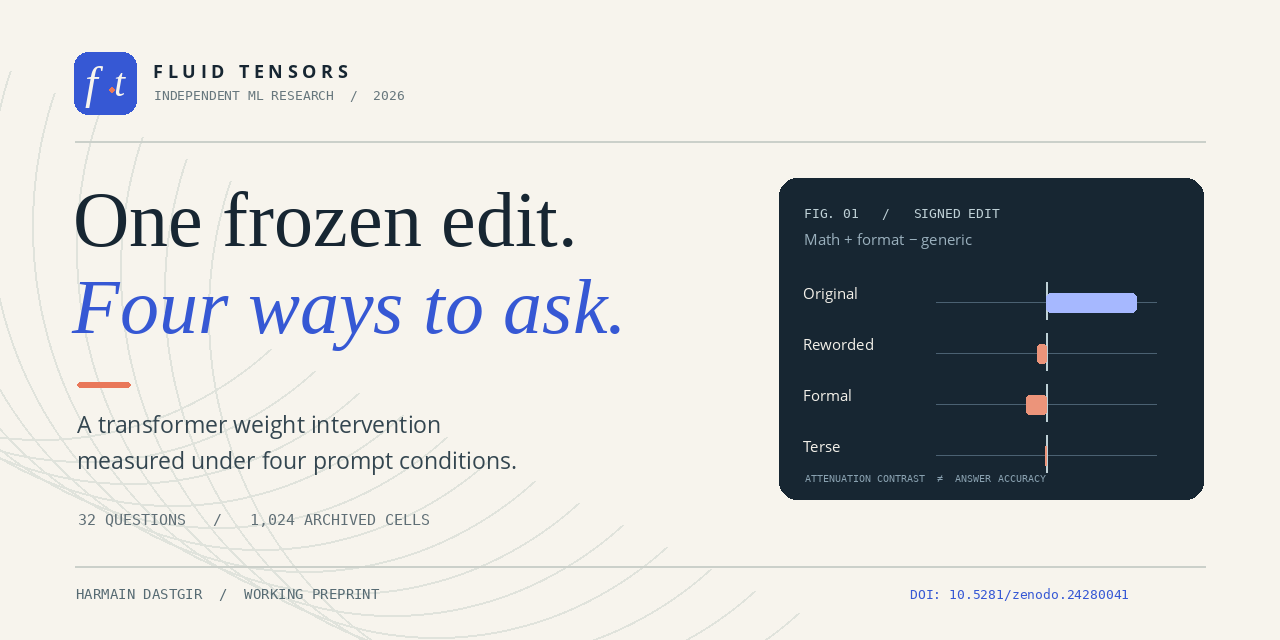
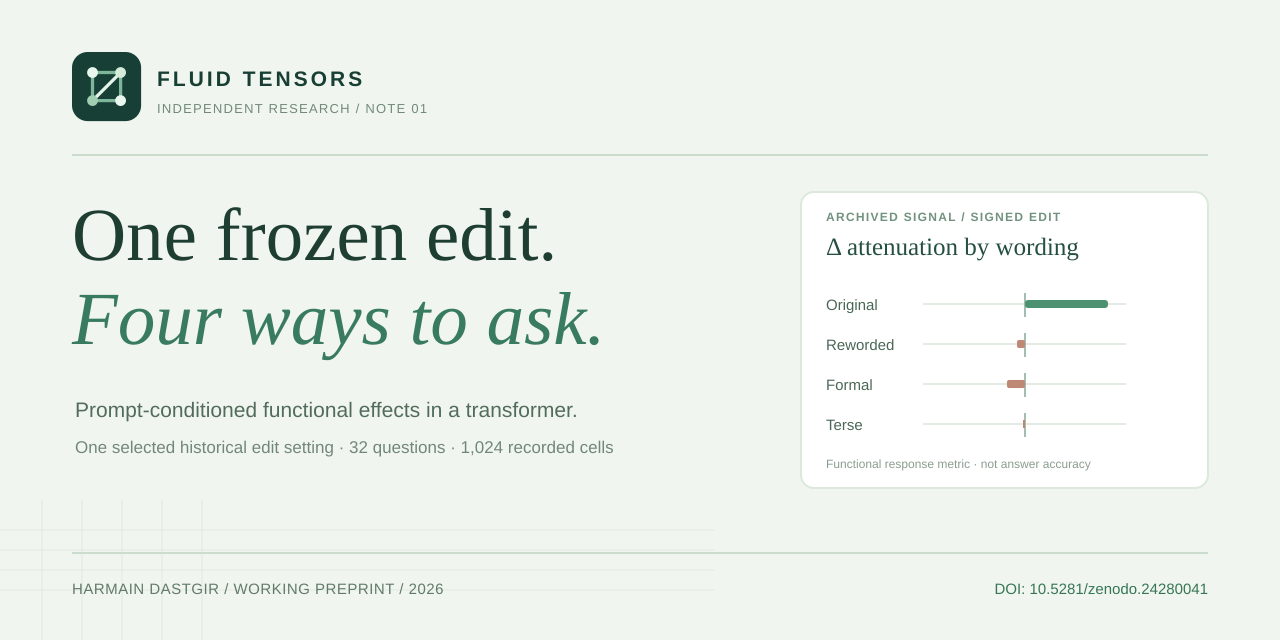
Add files via upload

diff --git a/docs/editorial.css b/docs/editorial.css
@@ -1,6 +1,7 @@
-@import url('https://fonts.googleapis.com/css2?family=Source+Sans+3:wght@400;500;600;700&display=swap');
+@import url('https://fonts.googleapis.com/css2?family=Newsreader:ital,opsz,wght@0,6..72,400;0,6..72,500;1,6..72,400&family=Source+Sans+3:wght@400;500;600;700&display=swap');
 
 :root{--text:#29342e;--muted:#697972;--green:#277c61;--green-dark:#17654c;--tint:#f3f8f5;--soft:#f7faf8;--line:#dce7e0;--paper:#fff;--danger:#ae6b53;--sans:'Source Sans 3',-apple-system,BlinkMacSystemFont,'Segoe UI',Arial,sans-serif}
+:root{--display:'Newsreader',Georgia,'Times New Roman',serif;--deep:#173f35;--copper:#b47860}
 *{box-sizing:border-box}
 html{scroll-behavior:smooth;scroll-padding-top:25px}
 body{margin:0;background:var(--paper);color:var(--text);font:17px/1.77 var(--sans);-webkit-font-smoothing:antialiased}
@@ -106,13 +107,72 @@ code,pre{font-family:Consolas,'SFMono-Regular',monospace;font-size:.85em}code{ba
 .site-footer .reading-width{display:flex;flex-wrap:wrap;justify-content:space-between;gap:10px}.site-footer .shell{display:flex;flex-wrap:wrap;justify-content:space-between;gap:16px}
 .footer-top{display:none}.footer-bottom{display:flex;gap:17px;flex-wrap:wrap}.footer-bottom>span{display:block}
 
+/* Fluid Tensors identity: an editorial issue cover with a measured signal. */
+.brand{gap:10px;color:var(--deep)}
+.brand img{display:block;flex:none;border-radius:9px}
+.brand .brand-wordmark{font-size:17px;font-weight:700;letter-spacing:-.3px;color:var(--deep);padding:0;border:0}
+.brand .brand-qualifier{font-size:12px;font-weight:500;letter-spacing:.12px;color:#8a9990;padding-left:12px;margin-left:4px;border-left:1px solid #d8e4db}
+.site-nav a[aria-current='page']{border-bottom:1px solid var(--green)}
+.paper-hero{background:#f1f5ef;padding:0;border-bottom:1px solid #dfe8df}
+.hero-grid{display:grid;grid-template-columns:minmax(0,1.04fr) minmax(380px,.96fr);gap:65px;align-items:center;padding-top:78px;padding-bottom:76px}
+.hero-copy{min-width:0}
+.paper-category{display:flex;align-items:center;gap:12px;font-size:11px;letter-spacing:1.5px;margin-bottom:26px;color:#54806a}
+.category-separator{color:#b5cbbc;font-size:20px;font-weight:400;line-height:0}
+.paper-hero .hero-copy h1{font:500 clamp(56px,5.6vw,79px)/.99 var(--display);letter-spacing:-2px;color:#1f3f32;max-width:none}
+.paper-hero .hero-copy h1 em{color:#397b60;font-style:italic;font-weight:400}
+.paper-hero .paper-subtitle{font-size:18px;color:#38554a;font-weight:600;line-height:1.5;margin-top:27px}
+.hero-intro{font-size:17px;line-height:1.72;color:#687b6e;max-width:500px;margin-top:17px}
+.hero-actions{display:flex;flex-wrap:wrap;gap:13px 21px;align-items:center;margin-top:30px}
+.hero-actions .button-primary{background:var(--deep);color:#fff;border-color:var(--deep);font-size:14px;font-weight:600;padding:12px 18px;border-radius:5px}
+.hero-actions .button-primary:hover{background:#315e49;color:#fff;text-decoration:none}
+.hero-text-link{font-size:14px;font-weight:600;letter-spacing:.1px;color:#386f55}
+.hero-comparison{margin:0;background:#fff;border:1px solid #d5e2d7;border-radius:11px;padding:25px 26px 20px;box-shadow:0 13px 45px #2448340b;min-width:0}
+.hero-figure-head{display:flex;justify-content:space-between;gap:8px;color:#82978a;font-size:10px;font-weight:700;letter-spacing:1.05px;text-transform:uppercase;padding-bottom:18px;border-bottom:1px solid #e6eee6}
+.hero-figure-title{display:flex;justify-content:space-between;align-items:baseline;gap:12px;margin:22px 0 21px}
+.hero-figure-title strong{font:500 24px/1.2 var(--display);color:var(--deep)}
+.hero-figure-title span{color:#81948a;font-size:12px;white-space:nowrap}
+.hero-plot-scale{display:flex;justify-content:space-between;margin:0 92px 5px 81px;color:#90a197;font-size:10px;letter-spacing:.1px}
+.hero-plot-row{display:grid;grid-template-columns:80px minmax(0,1fr) 89px;align-items:center;gap:11px;min-height:43px;font-size:13px}
+.hero-plot-row>span{color:#486658;font-weight:600}.hero-plot-row>strong{text-align:right;font-size:12px;color:#536f5f;letter-spacing:-.15px;font-variant-numeric:tabular-nums}
+.hero-plot-track{height:24px;position:relative;background:repeating-linear-gradient(to right,transparent 0,transparent calc(25% - 1px),#eff4ef calc(25% - 1px),#eff4ef 25%);border-bottom:1px solid #e1eae1}
+.hero-zero{position:absolute;left:50%;height:24px;width:1px;background:#96ad9e;top:0}
+.hero-plot-track>b{height:8px;position:absolute;top:8px;border-radius:2px;min-width:2px}
+.hero-positive{left:50%;background:#4d9270}.hero-negative{right:50%;background:#bd8874}
+.hero-comparison figcaption{border-top:1px solid #e6eee6;margin-top:21px;padding-top:14px;font-size:11px;line-height:1.6;color:#829388}
+.hero-comparison figcaption strong{color:#5b7b68;font-weight:600}
+.hero-bottom{display:flex;justify-content:space-between;gap:20px;flex-wrap:wrap;border-top:1px solid #dce7db;padding-top:17px;padding-bottom:20px;color:#78907e;font-size:11px;letter-spacing:.8px;text-transform:uppercase}
+.paper-meta{padding-top:29px;padding-bottom:29px}
+.paper-meta strong{color:var(--deep)}
+.research-prose{padding-top:52px}
+.research-prose h2,.article-body h2{font:500 37px/1.12 var(--display);color:#254f3e;letter-spacing:-.5px;padding-bottom:18px;border-color:#dbe7dc}
+.research-prose h2::before{display:block;font:600 11px/1.5 var(--sans);letter-spacing:1.4px;color:#8da798;margin-bottom:13px}
+#explore h2::before{content:'01 / RESULTS'}
+#evidence h2::before{content:'02 / THE FIGURES'}
+#methods h2::before{content:'03 / THE AUDIT'}
+#limitations h2::before{content:'04 / INTERPRETATION'}
+.research-prose h3,.article-body h3{color:#234a37}
+.tldr,.lead-callout{background:#f1f6f0;border:0;border-left:3px solid #669b77;border-radius:0 8px 8px 0;padding:24px 25px}
+.tldr>strong,.lead-callout>span{letter-spacing:1.2px}
+.experiment-panel{border-top:3px solid var(--deep)}
+.research-figure,.article-figure{background:#fbfcf9;border:1px solid #e1eae0;border-radius:8px;padding:16px}
+.research-figure button,.article-figure button{transition:opacity .2s ease}.research-figure button:hover,.article-figure button:hover{opacity:.92}
+.article-hero{background:#f1f5ef;padding:68px 0 66px}
+.article-hero h1{font:500 clamp(48px,5.5vw,66px)/1.02 var(--display);letter-spacing:-1.4px;color:var(--deep)}
+.article-dek{font-size:18px;max-width:620px}
+.article-author{border-top:1px solid #d8e6da;padding-top:17px;max-width:620px}
+.article-cta .button-primary{background:var(--deep);border-color:var(--deep)}
+.article-cta .button-primary:hover{background:#315e49}
+.article-body h2{margin-top:67px}
+
 @media(max-width:850px){
   .site-nav{gap:16px}.nav-shell{gap:15px}.nav-link-pill{display:none}
   .paper-meta{grid-template-columns:1fr 1fr;gap:16px 22px}
+  .hero-grid{grid-template-columns:1fr;gap:35px;padding-top:61px;padding-bottom:42px}
+  .hero-comparison{max-width:630px}
 }
 @media(max-width:650px){
   body{font-size:16px}.shell{width:calc(100% - 34px)}.reading-width,.article-container{width:calc(100% - 36px)}
-  .nav-shell{height:63px}.brand{font-size:15px}.brand>span{display:none}.brand-name{font-size:15px}.brand-name small{font-size:10px}
+  .nav-shell{height:63px}.brand{font-size:15px}.brand>span{display:none}.brand .brand-wordmark{display:inline;font-size:16px}.brand-name{font-size:15px}.brand-name small{font-size:10px}
   .menu-toggle{display:block;margin-left:auto}.site-nav{display:none;position:absolute;top:63px;left:0;right:0;padding:16px 20px;background:#fff;border-bottom:1px solid var(--line);z-index:50;box-shadow:0 12px 20px #25392c10}
   .site-nav.is-open{display:flex;flex-direction:column;align-items:flex-start;gap:7px}
   .paper-hero,.article-hero{padding:38px 0 43px}.paper-hero h1,.article-hero h1{font-size:37px;letter-spacing:-.9px}.paper-subtitle,.article-dek{font-size:17px}
@@ -121,5 +181,13 @@ code,pre{font-family:Consolas,'SFMono-Regular',monospace;font-size:.85em}code{ba
   .experiment-controls,.experiment-display{padding:18px}.wording-controls{gap:10px}.wording-controls button{font-size:13px}.reading-value output{font-size:49px}
   .article-author{gap:9px 18px}.article-mini-toc{gap:7px 13px}
   .research-figure,.article-figure{padding:6px;margin:25px 0}.research-figure figcaption,.article-figure figcaption{padding:9px 5px;font-size:12px}
+  .hero-grid{padding-top:39px;padding-bottom:33px;gap:32px}
+  .paper-hero .hero-copy h1{font-size:clamp(49px,11vw,64px);letter-spacing:-1.3px}
+  .paper-hero .paper-subtitle{font-size:17px;margin-top:20px}.hero-intro{font-size:15px;margin-top:14px}
+  .hero-comparison{padding:18px 14px 16px}.hero-figure-title strong{font-size:20px}
+  .hero-plot-row{grid-template-columns:66px minmax(0,1fr) 74px;gap:6px;font-size:12px}.hero-plot-row>strong{font-size:10px}
+  .hero-plot-scale{margin-left:69px;margin-right:75px}
+  .hero-bottom{font-size:10px;padding-bottom:15px}.research-prose{padding-top:36px}
+  .research-prose h2,.article-body h2{font-size:33px}.article-hero h1{font-size:48px}
 }
 @media(prefers-reduced-motion:reduce){html{scroll-behavior:auto}*,*::before,*::after{transition:none!important;animation:none!important}}

diff --git a/docs/index.html b/docs/index.html
@@ -37,7 +37,7 @@
   <div class="reading-progress" id="readingProgress" aria-hidden="true"></div>
   <header class="site-header">
     <div class="shell nav-shell">
-      <a class="brand" href="index.html">Fluid Tensors <span>Research notes</span></a>
+      <a class="brand" href="index.html"><img src="assets/ft-mark.svg" width="32" height="32" alt=""><span class="brand-wordmark">Fluid Tensors</span><span class="brand-qualifier">Research notes</span></a>
       <nav class="site-nav" id="primaryNav" aria-label="Main navigation">
         <a href="#overview" aria-current="page">Overview</a>
         <a href="#explore">Results</a>
@@ -51,11 +51,29 @@
 
   <main id="main">
     <section class="paper-hero" id="overview">
-      <div class="reading-width">
-        <p class="paper-category">Research note / Transformer model editing</p>
-        <h1>One Frozen Edit, Four Ways to Ask</h1>
-        <p class="paper-subtitle">Prompt-Conditioned Functional Effects in a Transformer</p>
+      <div class="shell hero-grid">
+        <div class="hero-copy">
+          <p class="paper-category">Fluid Tensors <span class="category-separator">/</span> Research note 01</p>
+          <h1>One frozen edit.<br><em>Four ways to ask.</em></h1>
+          <p class="paper-subtitle">Prompt-Conditioned Functional Effects in a Transformer</p>
+          <p class="hero-intro">An archived transformer intervention looked different when the same questions were phrased differently. We traced the numbers, the controls, and the limits of the result.</p>
+          <div class="hero-actions"><a class="button button-primary" href="#explore">Explore the finding <span aria-hidden="true">↘</span></a><a class="hero-text-link" href="papers/one-frozen-edit.html">Read the research article <span aria-hidden="true">↗</span></a></div>
+        </div>
+
+        <figure class="hero-comparison" aria-label="Recorded signed-edit attenuation contrasts by original, reworded, formal, and terse question wording, not answer accuracy">
+          <div class="hero-figure-head"><span>Figure preview / archival data</span><span>CI V2.1</span></div>
+          <div class="hero-figure-title"><strong>A fixed edit, four responses</strong><span>Δ attenuation</span></div>
+          <div class="hero-plot-scale"><span>−0.25</span><span>0</span><span>+0.25</span></div>
+          <div class="hero-plot">
+            <div class="hero-plot-row"><span>Original</span><div class="hero-plot-track"><i class="hero-zero"></i><b class="hero-positive" style="width:41.10849%"></b></div><strong>+0.205542</strong></div>
+            <div class="hero-plot-row"><span>Reworded</span><div class="hero-plot-track"><i class="hero-zero"></i><b class="hero-negative" style="width:4.13466%"></b></div><strong>−0.020673</strong></div>
+            <div class="hero-plot-row"><span>Formal</span><div class="hero-plot-track"><i class="hero-zero"></i><b class="hero-negative" style="width:9.16377%"></b></div><strong>−0.045819</strong></div>
+            <div class="hero-plot-row"><span>Terse</span><div class="hero-plot-track"><i class="hero-zero"></i><b class="hero-negative" style="width:.46731%"></b></div><strong>−0.002337</strong></div>
+          </div>
+          <figcaption>Signed direction; mean math-plus-format minus generic attenuation, across 32 archived questions. <strong>Not answer accuracy.</strong></figcaption>
+        </figure>
       </div>
+      <div class="hero-bottom shell"><span>Qwen2.5-1.5B</span><span>32 paired question units</span><span>Research preprint · November 2026</span></div>
     </section>
 
     <div class="paper-meta reading-width">

diff --git a/docs/papers/one-frozen-edit.html b/docs/papers/one-frozen-edit.html
@@ -35,7 +35,7 @@
 <body class="article-page">
   <a class="skip-link" href="#main">Skip to research</a>
   <div class="reading-progress" id="readingProgress" aria-hidden="true"></div>
-  <header class="site-header"><div class="shell nav-shell"><a class="brand" href="../index.html">Fluid Tensors <span>Research notes</span></a><nav class="site-nav" id="primaryNav" aria-label="Primary navigation"><a href="../index.html">Overview</a><a href="#methods">Methods</a><a href="#figures">Figures</a><a href="#limitations">Limitations</a><a aria-current="page" href="one-frozen-edit.html">Full article</a></nav><button class="menu-toggle" type="button" aria-controls="primaryNav" aria-expanded="false" aria-label="Open navigation"><span></span><span></span></button></div></header>
+  <header class="site-header"><div class="shell nav-shell"><a class="brand" href="../index.html"><img src="../assets/ft-mark.svg" width="32" height="32" alt=""><span class="brand-wordmark">Fluid Tensors</span><span class="brand-qualifier">Research notes</span></a><nav class="site-nav" id="primaryNav" aria-label="Primary navigation"><a href="../index.html">Overview</a><a href="#methods">Methods</a><a href="#figures">Figures</a><a href="#limitations">Limitations</a><a aria-current="page" href="one-frozen-edit.html">Full article</a></nav><button class="menu-toggle" type="button" aria-controls="primaryNav" aria-expanded="false" aria-label="Open navigation"><span></span><span></span></button></div></header>
   <main id="main">
     <section class="article-hero">
       <div class="article-container">
